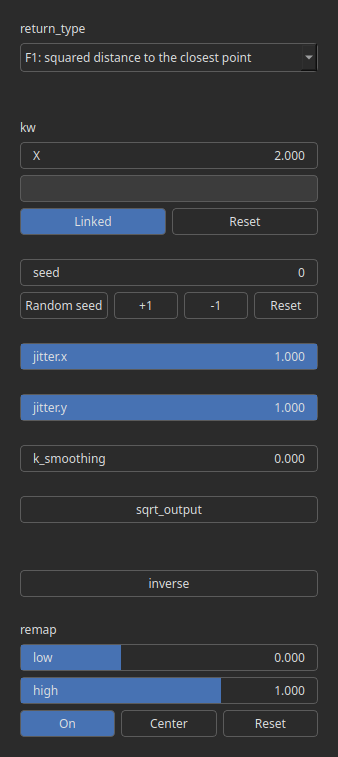
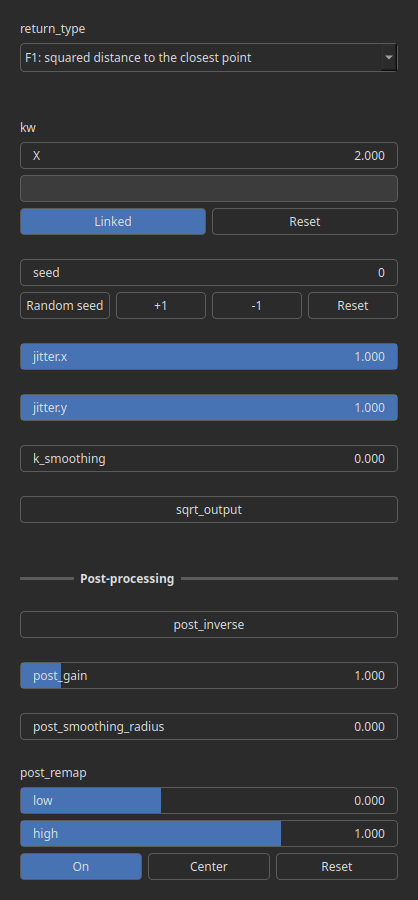
Add new output value to Voronoi nodes

diff --git a/Hesiod/src/model/nodes/nodes_function/voronoi_fbm.cpp b/Hesiod/src/model/nodes/nodes_function/voronoi_fbm.cpp
@@ -42,8 +42,6 @@ void setup_voronoi_fbm_node(BaseNode *p_node)
   ADD_ATTR(FloatAttribute, "weight", 0.7f, 0.f, 1.f);
   ADD_ATTR(FloatAttribute, "persistence", 0.5f, 0.f, 1.f);
   ADD_ATTR(FloatAttribute, "lacunarity", 2.f, 0.01f, 4.f);
-  ADD_ATTR(BoolAttribute, "inverse", false);
-  ADD_ATTR(RangeAttribute, "remap");
 
   // attribute(s) order
   p_node->set_attr_ordered_key({"return_type",
@@ -57,10 +55,9 @@ void setup_voronoi_fbm_node(BaseNode *p_node)
                                 "octaves",
                                 "weight",
                                 "persistence",
-                                "lacunarity",
-                                "_SEPARATOR_",
-                                "inverse",
-                                "remap"});
+                                "lacunarity"});
+
+  setup_post_process_heightmap_attributes(p_node);
 }
 
 void compute_voronoi_fbm_node(BaseNode *p_node)
@@ -125,17 +122,7 @@ void compute_voronoi_fbm_node(BaseNode *p_node)
 
   // post-process
   post_apply_enveloppe(p_node, *p_out, p_env);
-
-  post_process_heightmap(p_node,
-                         *p_out,
-                         GET("inverse", BoolAttribute),
-                         false, // smooth
-                         0,
-                         false, // saturate
-                         {0.f, 0.f},
-                         0.f,
-                         GET_MEMBER("remap", RangeAttribute, is_active),
-                         GET("remap", RangeAttribute));
+  post_process_heightmap(p_node, *p_out);
 
   Q_EMIT p_node->compute_finished(p_node->get_id());
 }

diff --git a/Hesiod/src/model/nodes/nodes_function/voronoi.cpp b/Hesiod/src/model/nodes/nodes_function/voronoi.cpp
@@ -39,8 +39,6 @@ void setup_voronoi_node(BaseNode *p_node)
   ADD_ATTR(FloatAttribute, "jitter.y", 1.f, 0.f, 1.f);
   ADD_ATTR(FloatAttribute, "k_smoothing", 0.f, 0.f, 1.f);
   ADD_ATTR(BoolAttribute, "sqrt_output", false);
-  ADD_ATTR(BoolAttribute, "inverse", false);
-  ADD_ATTR(RangeAttribute, "remap");
 
   // attribute(s) order
   p_node->set_attr_ordered_key({"return_type",
@@ -50,10 +48,9 @@ void setup_voronoi_node(BaseNode *p_node)
                                 "jitter.x",
                                 "jitter.y",
                                 "k_smoothing",
-                                "sqrt_output",
-                                "_SEPARATOR_",
-                                "inverse",
-                                "remap"});
+                                "sqrt_output"});
+
+  setup_post_process_heightmap_attributes(p_node);
 }
 
 void compute_voronoi_node(BaseNode *p_node)
@@ -114,17 +111,7 @@ void compute_voronoi_node(BaseNode *p_node)
 
   // post-process
   post_apply_enveloppe(p_node, *p_out, p_env);
-
-  post_process_heightmap(p_node,
-                         *p_out,
-                         GET("inverse", BoolAttribute),
-                         false, // smooth
-                         0,
-                         false, // saturate
-                         {0.f, 0.f},
-                         0.f,
-                         GET_MEMBER("remap", RangeAttribute, is_active),
-                         GET("remap", RangeAttribute));
+  post_process_heightmap(p_node, *p_out);
 
   Q_EMIT p_node->compute_finished(p_node->get_id());
 }

diff --git a/Hesiod/src/cli/batch_mode.cpp b/Hesiod/src/cli/batch_mode.cpp
@@ -133,10 +133,10 @@ void run_batch_mode(const std::string     &filename,
 void run_node_inventory()
 {
   LOG->info("executing Hesiod in node inventory mode");
-  // hesiod::dump_node_inventory("node_inventory");
+  hesiod::dump_node_inventory("node_inventory");
 
-  // auto config = std::make_shared<hesiod::ModelConfig>();
-  // hesiod::dump_node_documentation_stub("node_documentation_stub.json", config);
+  auto config = std::make_shared<hesiod::ModelConfig>();
+  hesiod::dump_node_documentation_stub("node_documentation_stub.json", config);
 
   hesiod::dump_node_settings_screenshots();
 }

diff --git a/Hesiod/include/hesiod/model/enum_mapping.hpp b/Hesiod/include/hesiod/model/enum_mapping.hpp
@@ -194,6 +194,7 @@ static std::map<std::string, int> voronoi_return_type_map = {
     {"F1 / F2: squared", hmap::VoronoiReturnType::F1DF2_SQUARED},
     {"F2 - F1: squared", hmap::VoronoiReturnType::F2MF1_SQUARED},
     {"Edge distance squared", hmap::VoronoiReturnType::EDGE_DISTANCE_SQUARED},
-    {"Cell value", hmap::VoronoiReturnType::CONSTANT}};
+    {"Cell value", hmap::VoronoiReturnType::CONSTANT},
+    {"Cell value * (F2 - F1)", hmap::VoronoiReturnType::CONSTANT_F2MF1_SQUARED}};
 
 } // namespace hesiod

diff --git a/docs/node_reference/nodes/VoronoiFbm.md b/docs/node_reference/nodes/VoronoiFbm.md
@@ -33,7 +33,6 @@ Primitive/Coherent
 
 |Name|Type|Description|
 | :--- | :--- | :--- |
-|inverse|Bool|Toggle inversion of the output values.|
 |jitter.x|Float|Amount of random jitter applied to seed points along the X-axis.|
 |jitter.y|Float|Amount of random jitter applied to seed points along the Y-axis.|
 |k_smoothing|Float|No description|
@@ -41,7 +40,10 @@ Primitive/Coherent
 |lacunarity|Float|Frequency multiplier between successive octaves in the fBm process.|
 |octaves|Integer|Number of fBm layers to combine for added detail and complexity.|
 |persistence|Float|Amplitude scaling factor applied to each successive octave.|
-|remap|Value range|Remaps the output values to a defined value range.|
+|post_gain|Float|Set the gain. Gain is a power law transformation altering the distribution of signal values, compressing or expanding certain regions of the signal depending on the exponent of the power law.|
+|post_inverse|Bool|Inverts the output values after processing, flipping low and high values across the midrange.|
+|post_remap|Value range|Linearly remaps the output values to a specified target range (default is [0, 1]).|
+|post_smoothing_radius|Float|Defines the radius for post-processing smoothing, determining the size of the neighborhood used to average local values and reduce high-frequency detail. A radius of 0 disables smoothing.|
 |return_type|Enumeration|Defines the type of Voronoi information returned.|
 |seed|Random seed number|Seed for random generation, affecting jitter and point distribution.|
 |sqrt_output|Bool|No description|

diff --git a/docs/node_reference/nodes/Voronoi.md b/docs/node_reference/nodes/Voronoi.md
@@ -33,12 +33,14 @@ Primitive/Coherent
 
 |Name|Type|Description|
 | :--- | :--- | :--- |
-|inverse|Bool|Toggle inversion of the output values.|
 |jitter.x|Float|Amount of random jitter along the X-axis applied to Voronoi seed positions.|
 |jitter.y|Float|Amount of random jitter along the Y-axis applied to Voronoi seed positions.|
 |k_smoothing|Float|No description|
 |kw|Wavenumber|Wavenumber controlling the spatial frequency (cell size) of the Voronoi pattern.|
-|remap|Value range|Remaps the output values to a specified target range.|
+|post_gain|Float|Set the gain. Gain is a power law transformation altering the distribution of signal values, compressing or expanding certain regions of the signal depending on the exponent of the power law.|
+|post_inverse|Bool|Inverts the output values after processing, flipping low and high values across the midrange.|
+|post_remap|Value range|Linearly remaps the output values to a specified target range (default is [0, 1]).|
+|post_smoothing_radius|Float|Defines the radius for post-processing smoothing, determining the size of the neighborhood used to average local values and reduce high-frequency detail. A radius of 0 disables smoothing.|
 |return_type|Enumeration|Determines the output type.|
 |seed|Random seed number|Seed value for the random generator affecting jitter and cell layout.|
 |sqrt_output|Bool|No description|
